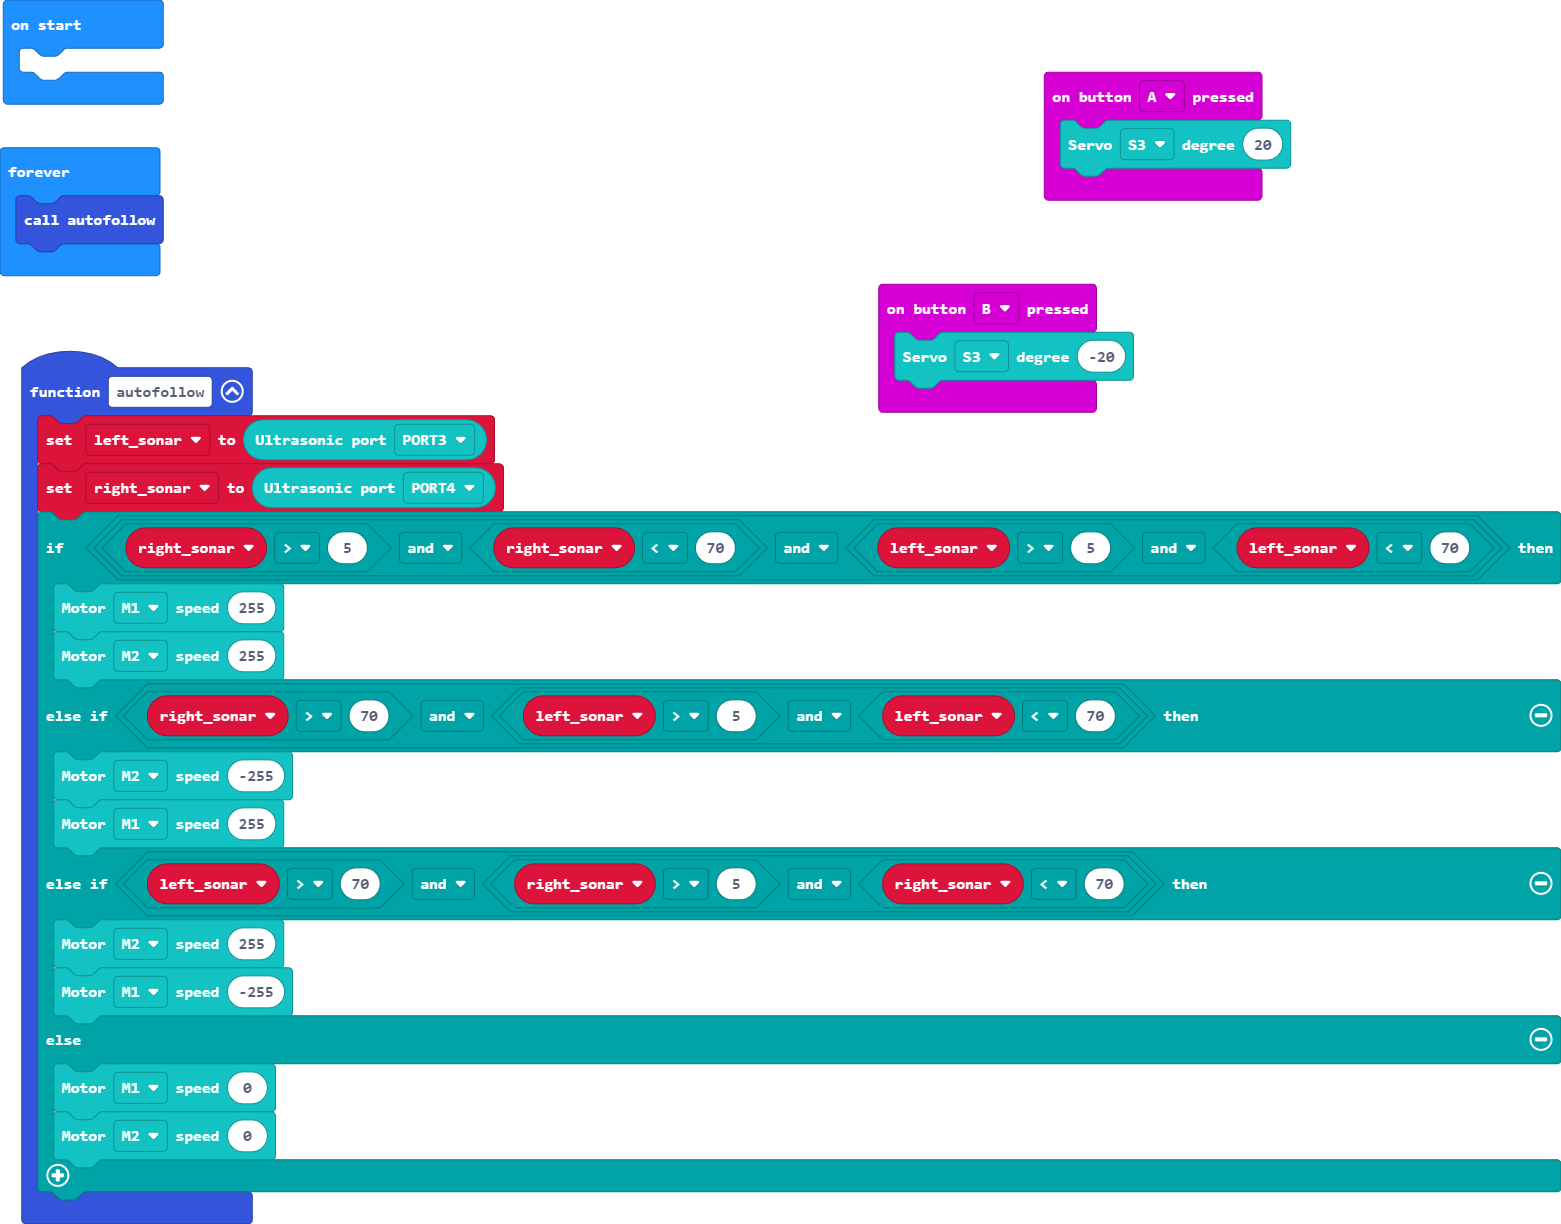
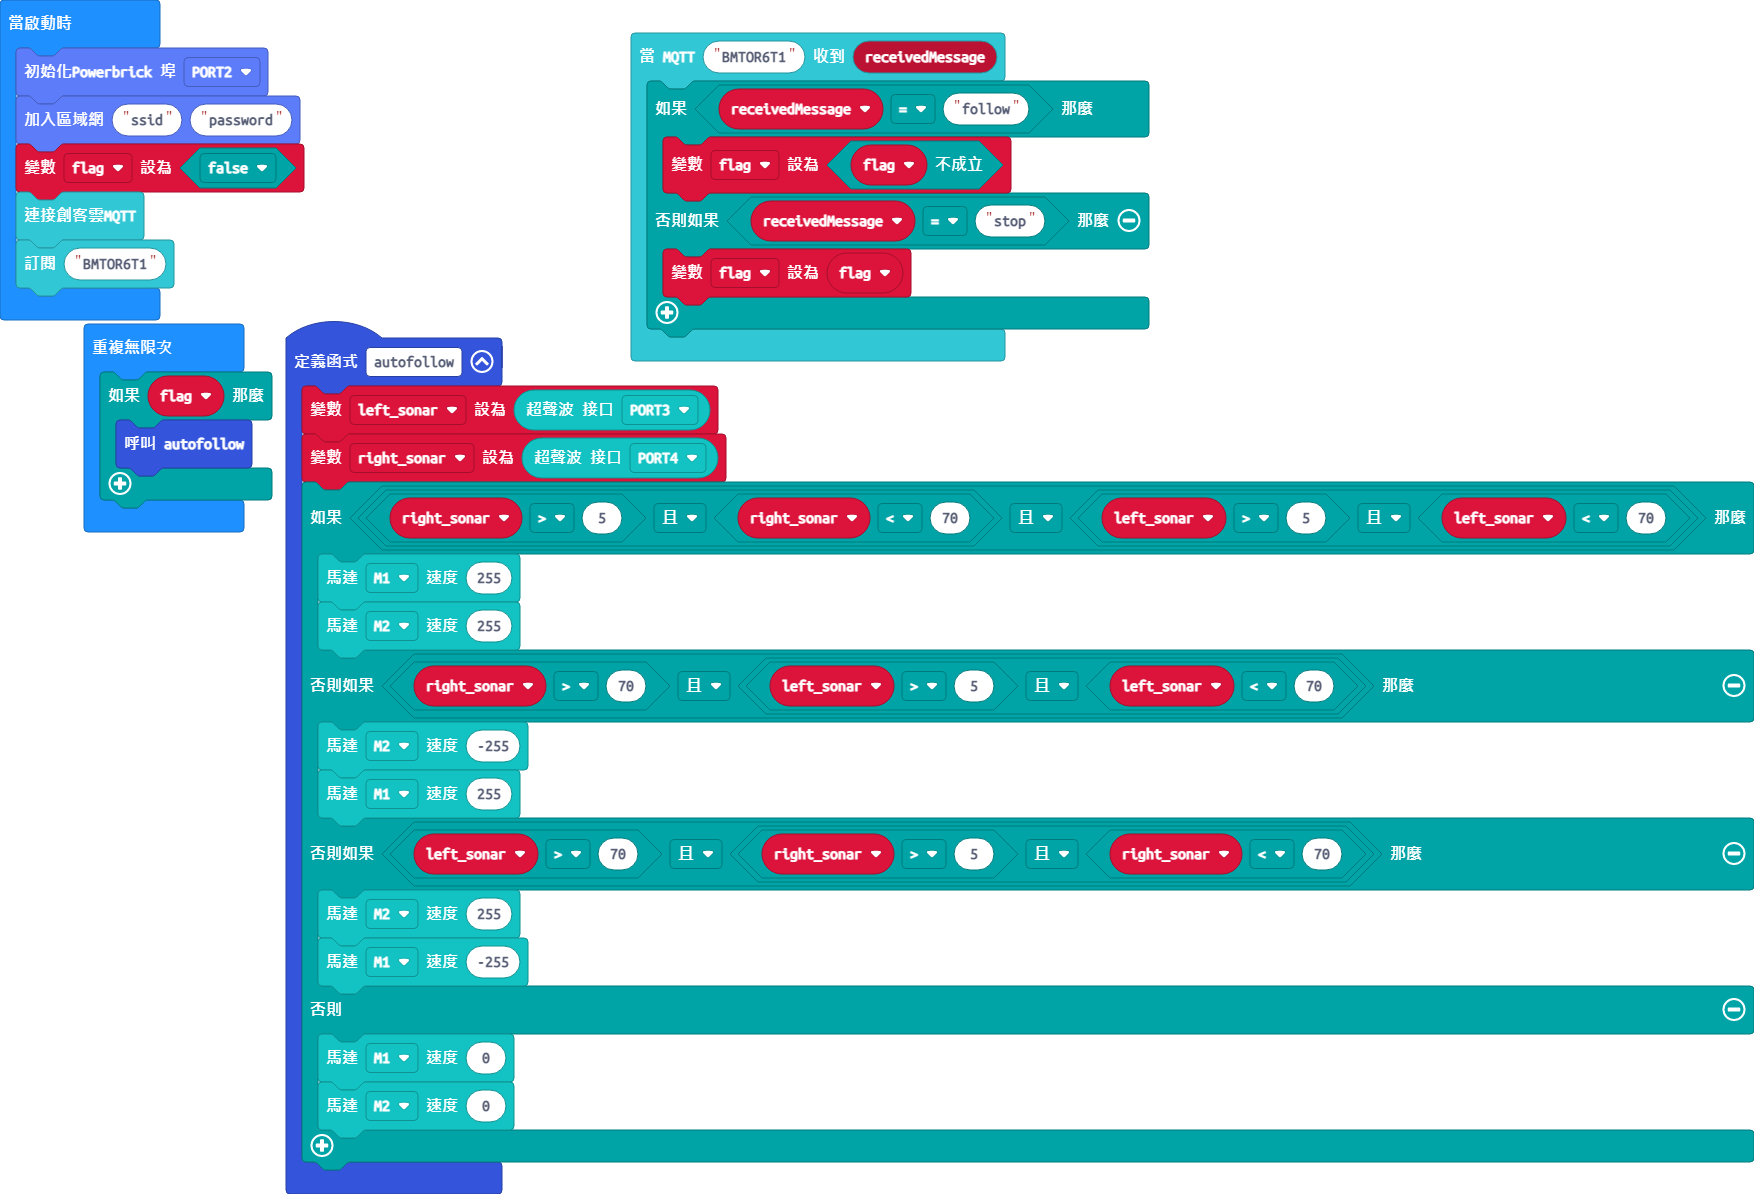
更新 main.blocks, main.ts

diff --git a/main.ts b/main.ts
@@ -1,5 +1,10 @@
-let left_sonar = 0
-let right_sonar = 0
+MakerCloud_KOI.registerTopicMessageHandler("BMTOR6T1", function (receivedMessage) {
+    if (receivedMessage == "follow") {
+        flag = !(flag)
+    } else if (receivedMessage == "stop") {
+        flag = flag
+    }
+})
 function autofollow () {
     left_sonar = powerbrick.Ultrasonic(powerbrick.Ports.PORT3)
     right_sonar = powerbrick.Ultrasonic(powerbrick.Ports.PORT4)
@@ -17,12 +22,16 @@ function autofollow () {
         powerbrick.MotorRun(powerbrick.Motors.M2, 0)
     }
 }
-input.onButtonPressed(Button.A, function () {
-    powerbrick.Servo(powerbrick.Servos.S3, 20)
-})
-input.onButtonPressed(Button.B, function () {
-    powerbrick.Servo(powerbrick.Servos.S3, -20)
-})
+let right_sonar = 0
+let left_sonar = 0
+let flag = false
+koi.koi_init_pw(koi.SerialPorts.PORT2)
+koi.koi_join_ap("ssid", "password")
+flag = false
+MakerCloud_KOI.connectMakerCloudMQTT()
+MakerCloud_KOI.subscribeTopic("BMTOR6T1")
 basic.forever(function () {
-    autofollow()
+    if (flag) {
+        autofollow()
+    }
 })
